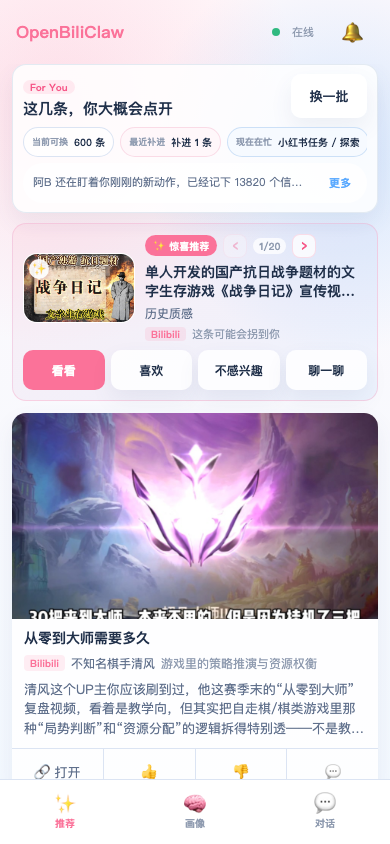
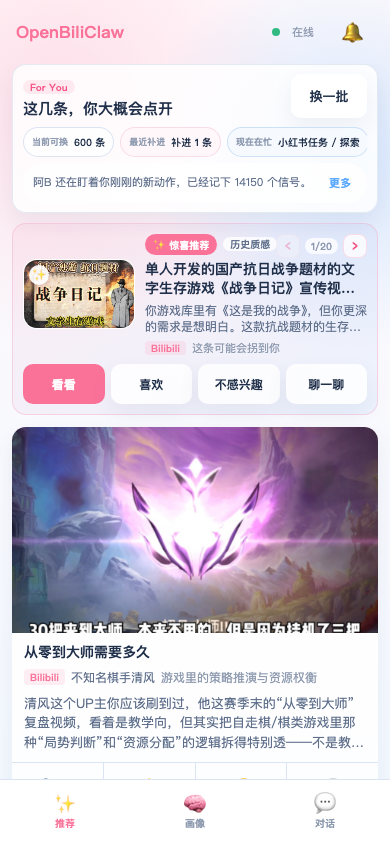
fix: show mobile delight reason

Changed region(s): [[0.0308, 0.2773, 0.9846, 0.9242], [0.6154, 0.1848, 0.7692, 0.2464]]

diff --git a/src/openbiliclaw/web/css/app.css b/src/openbiliclaw/web/css/app.css
@@ -481,6 +481,7 @@ body {
   align-items: center;
   gap: 6px;
   min-width: 0;
+  padding-right: 78px;
   flex-wrap: wrap;
 }
 
@@ -504,6 +505,16 @@ body {
   color: var(--text-muted);
   font-size: 10px;
   font-weight: 700;
+}
+
+.delight-corner-nav {
+  position: absolute;
+  top: 10px;
+  right: 10px;
+  display: inline-flex;
+  align-items: center;
+  gap: 5px;
+  z-index: 2;
 }
 
 .delight-inline-nav {
@@ -538,7 +549,24 @@ body {
   overflow: hidden;
 }
 
-.delight-hook {
+.delight-hook-badge {
+  min-width: 0;
+  max-width: 112px;
+  display: inline-flex;
+  align-items: center;
+  padding: 2px 7px;
+  border-radius: 999px;
+  background: rgba(255, 255, 255, 0.78);
+  color: var(--text-secondary);
+  font-size: 10px;
+  line-height: 1;
+  font-weight: 700;
+  overflow: hidden;
+  text-overflow: ellipsis;
+  white-space: nowrap;
+}
+
+.delight-reason {
   font-size: 12px;
   color: var(--text-secondary);
   line-height: 1.4;
@@ -599,7 +627,17 @@ body {
     width: 96px;
   }
 
-  .delight-hook {
+  .delight-corner-nav {
+    position: static;
+    justify-content: flex-end;
+    margin-bottom: 6px;
+  }
+
+  .delight-kicker-line {
+    padding-right: 0;
+  }
+
+  .delight-reason {
     -webkit-line-clamp: 1;
   }
 }
@@ -1186,6 +1224,7 @@ body {
 
 /* ── Delight Tray ─────────────────────────────────────────── */
 .delight-tray {
+  position: relative;
   background: linear-gradient(135deg, rgba(251,114,153,0.08), rgba(90,169,255,0.08));
   border: 1px solid var(--line-strong);
   border-radius: 14px;

diff --git a/src/openbiliclaw/web/js/views/recommend.js b/src/openbiliclaw/web/js/views/recommend.js
@@ -206,21 +206,25 @@ function renderDelightTray() {
   const coverHtml = cover
     ? `<span class="delight-thumb"><img src="${esc(cover.src)}" alt="" loading="lazy" referrerpolicy="${cover.referrerPolicy}" onerror="this.parentElement.classList.add('is-fallback');this.remove()"></span>`
     : `<span class="delight-thumb is-fallback">\u2728</span>`;
+  const reasonText = d.delight_reason || d.delight_hook || "";
 
   tray.innerHTML = `
+    ${delights.length > 1 ? `
+      <div class="delight-corner-nav">
+        <button class="delight-inline-nav" id="delight-prev" type="button" ${idx <= 0 ? "disabled" : ""}>\u2039</button>
+        <span class="delight-inline-counter">${idx + 1}/${delights.length}</span>
+        <button class="delight-inline-nav" id="delight-next" type="button" ${idx >= delights.length - 1 ? "disabled" : ""}>\u203A</button>
+      </div>
+    ` : ""}
     <div class="delight-compact">
       ${coverHtml}
       <div class="delight-copy">
         <div class="delight-kicker-line">
           <span class="delight-tag">\u2728 \u60CA\u559C\u63A8\u8350</span>
-          ${delights.length > 1 ? `
-            <button class="delight-inline-nav" id="delight-prev" type="button" ${idx <= 0 ? "disabled" : ""}>\u2039</button>
-            <span class="delight-inline-counter">${idx + 1}/${delights.length}</span>
-            <button class="delight-inline-nav" id="delight-next" type="button" ${idx >= delights.length - 1 ? "disabled" : ""}>\u203A</button>
-          ` : ""}
+          ${d.delight_hook ? `<span class="delight-hook-badge">${esc(d.delight_hook)}</span>` : ""}
         </div>
         <div class="delight-title">${esc(d.title)}</div>
-        <div class="delight-hook">${esc(d.delight_hook || d.delight_reason)}</div>
+        ${reasonText ? `<div class="delight-reason">${esc(reasonText)}</div>` : ""}
         <div class="delight-meta">
           <span class="card-source" data-source="${d.source_platform}">${esc(getSourceLabel(d.source_platform))}</span>
           ${uiState.score_label ? `<span>${esc(uiState.score_label)}</span>` : ""}

diff --git a/docs/changelog.md b/docs/changelog.md
@@ -15,6 +15,7 @@
 - 移动 Web 推荐页头部对齐插件：新增 `For You / 这几条，你大概会点开` 紧凑 header，把「换一批」放回首屏主操作位，池状态三枚 chip 改为「当前可换 / 最近补进 / 现在在忙」，活动状态降级为 header 内辅助行，「加载更多」移动到推荐列表底部。
 - 移动 Web 推荐页头部再次压缩移动端状态区：三枚池状态从大卡片改成横向轻量 pill，活动摘要改成单行；`xhs-extension-*`、`dy-plugin-*`、`yt-*` 等内部来源名会在移动端显示为用户可读的中文短标签。README 移动端预览说明同步使用「不感兴趣」文案。
 - 移动 Web 惊喜推荐改为接近插件的 compact banner：封面从全宽大图收敛为左侧小缩略图，右侧展示标签、标题、理由和来源，翻页控件并入标签行，减少首屏占用并保留「看看 / 喜欢 / 不感兴趣 / 聊一聊」动作。
+- 移动 Web 惊喜推荐 compact banner 恢复独立推荐原因描述：`delight_hook` 作为短标签展示，`delight_reason` 作为两行说明展示，避免只剩标题和 hook 看不到推荐理由。
 - 移动 Web 画像页补齐与插件一致的画像细节：MBTI 显示可信度，使用场景显示“模式”，内容口味把 `long/slow` 等 raw 值本地化为中文标签，认知更新卡片保留后端 `context_line` 与 `source_label`。
 - 移动 Web 对话页对齐插件主聊天会话：读取和提交都使用 `session=popup&scope=chat`，聊天回复完成后会刷新画像和活动流；消息 overlay 内的兴趣探测动作改为「喜欢 / 不喜欢 / 多聊聊」，惊喜推荐动作补齐「喜欢」，聊天输入框固定在底部并以两行高度起步，保留更多历史上下文可视空间。
 - 新增移动 Web 原生重设计 spec，明确 `/m/` 与浏览器插件在推荐、画像、对话、消息和 delight 工作流上的功能对齐范围，以及手机端独立信息架构。